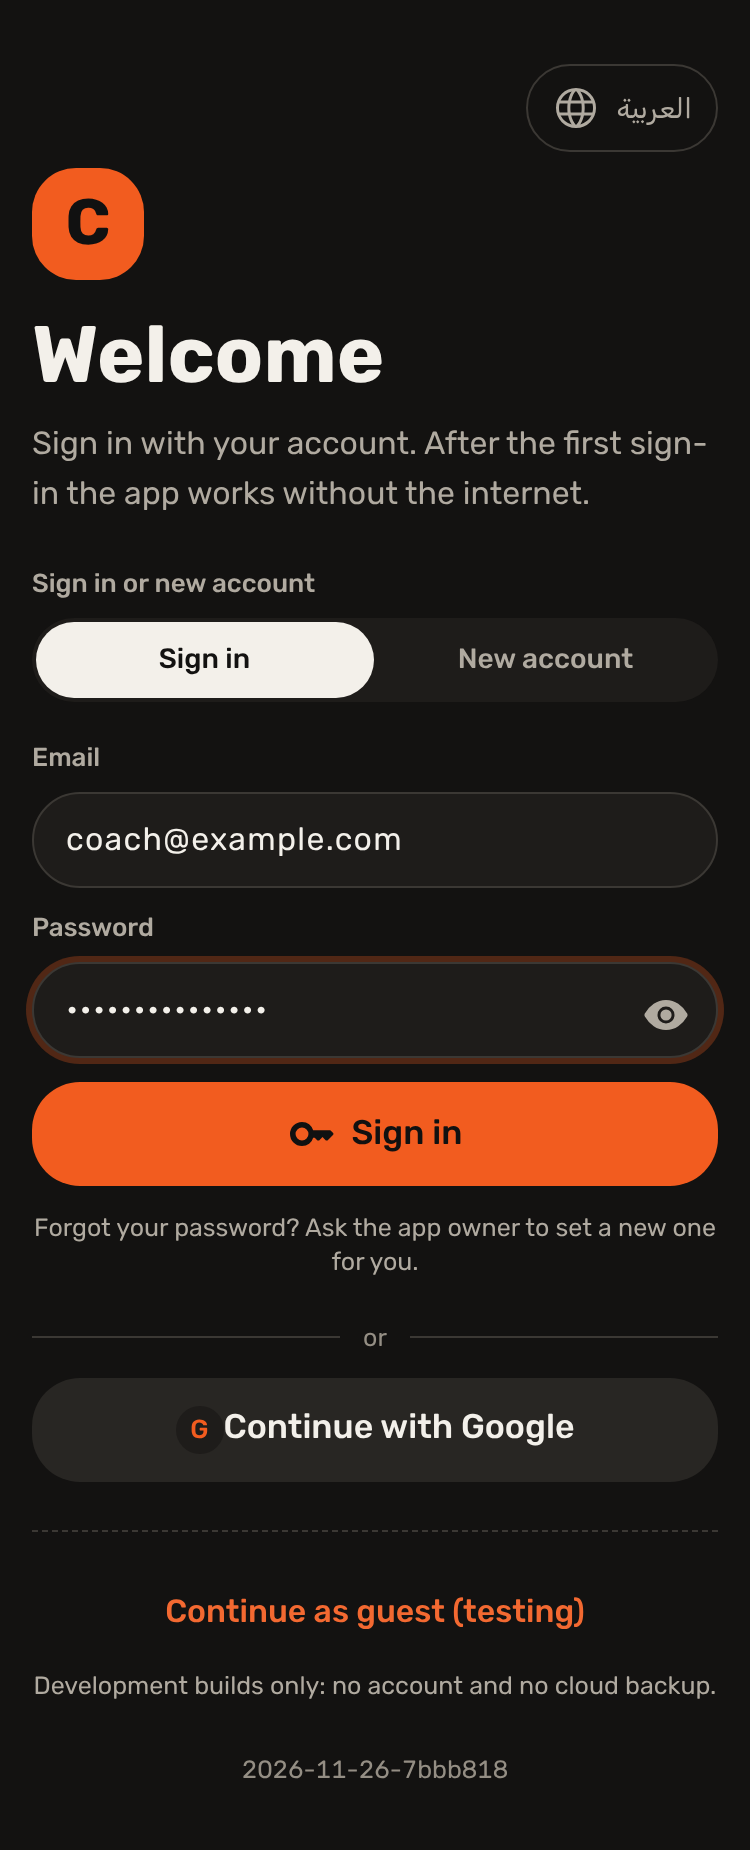
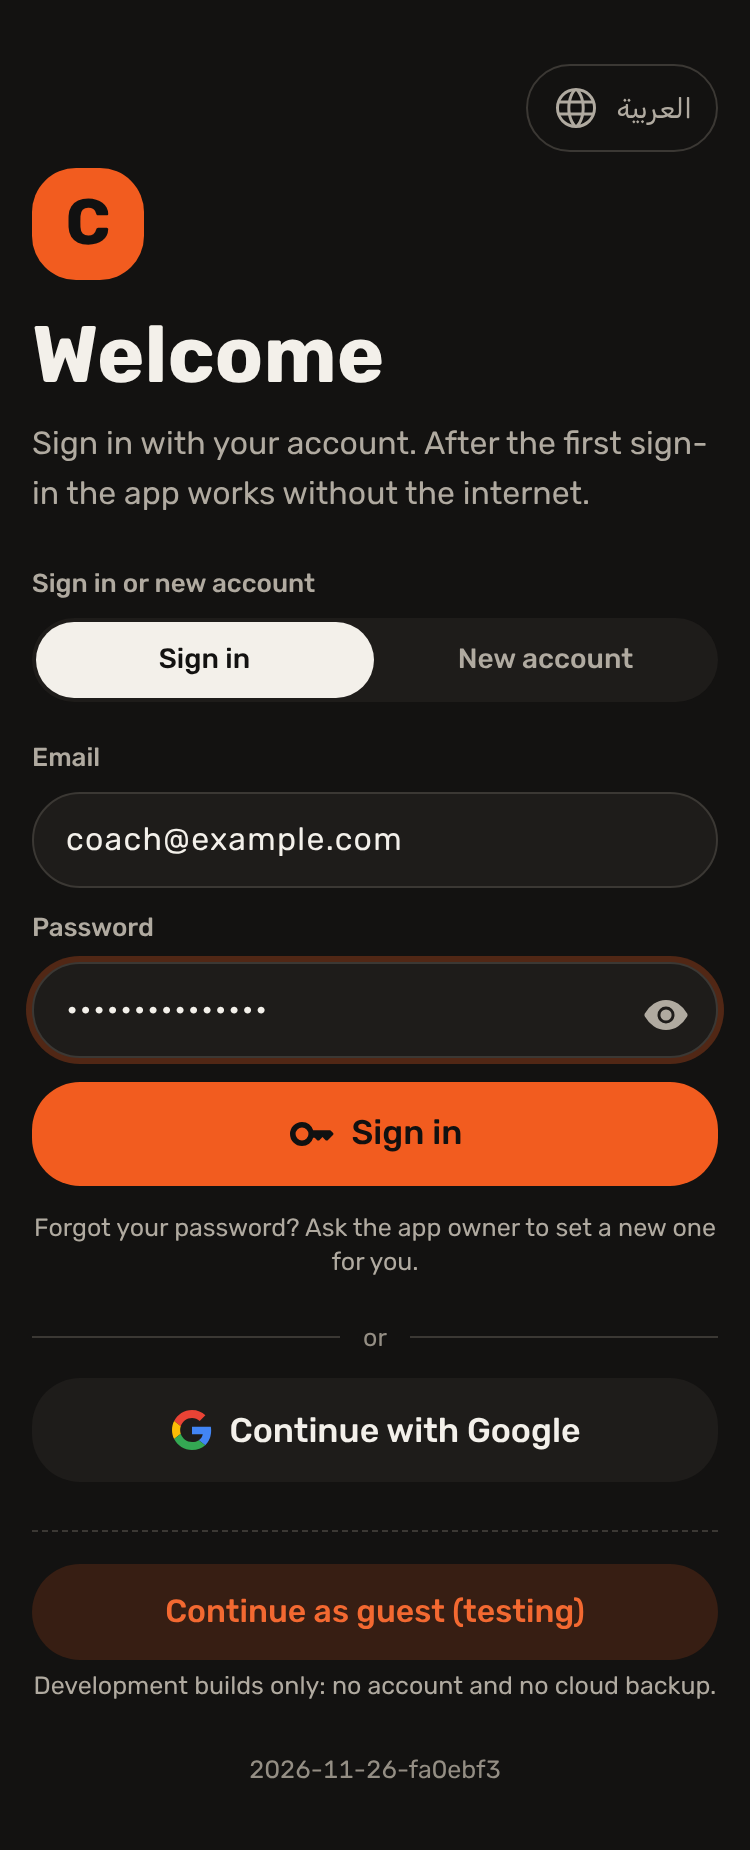
Buttons: Google sign-in is a real button with Google's G; no ghost buttons anywhere
- New outline variant (white pill, hairline border) + leading slot for a provider logo; GoogleLogo (multi-colour G).
- plain is now a brand-tint pill everywhere (about 30 standalone actions), so no button reads as ghost text.
  danger (red text, e.g. remove from team) is unchanged by request.
- DESIGN.md: the rule.

Claude-Session: https://claude.ai/code/session_012YPpedKTKw48EezoTwntGN

diff --git a/src/ui/Button/Button.tsx b/src/ui/Button/Button.tsx
@@ -4,18 +4,30 @@ import { cx } from '../cx';
 import styles from './Button.module.css';
 
 export interface ButtonProps extends ButtonHTMLAttributes<HTMLButtonElement> {
-  /** onBrand = inverse button sitting on a brand block (hero). */
-  variant?: 'primary' | 'secondary' | 'plain' | 'danger' | 'onBrand';
+  /**
+   * onBrand = inverse button sitting on a brand block (hero). plain = tinted pill (never a ghost text button).
+   * outline = white pill with a border, for "continue with <provider>" (pass the provider's logo as `leading`).
+   * danger = red text action (destructive, e.g. "remove from team").
+   */
+  variant?: 'primary' | 'secondary' | 'plain' | 'danger' | 'onBrand' | 'outline';
   size?: 'regular' | 'small' | 'large';
   icon?: IconName;
+  /** A custom glyph instead of `icon`, e.g. a provider's own logo (keeps its colours). */
+  leading?: ReactNode;
   block?: boolean;
   children: ReactNode;
 }
 
-export function Button({ variant = 'primary', size = 'regular', icon, block, className, children, type = 'button', ...rest }: ButtonProps) {
+export function Button({ variant = 'primary', size = 'regular', icon, leading, block, className, children, type = 'button', ...rest }: ButtonProps) {
   return (
     <button type={type} className={cx(styles.button, styles[variant], styles[size], block && styles.block, className)} {...rest}>
-      {icon && <Icon name={icon} />}
+      {leading ? (
+        <span className={styles.leading} aria-hidden="true">
+          {leading}
+        </span>
+      ) : (
+        icon && <Icon name={icon} />
+      )}
       <span>{children}</span>
     </button>
   );

diff --git a/src/features/auth/SignInScreen.tsx b/src/features/auth/SignInScreen.tsx
@@ -5,7 +5,7 @@ import { TEAM_META_KEYS } from '@/services/team/teamService';
 import { checkForAppUpdate, setReloadSafe } from '@/app/pwa/appUpdate';
 import { MIN_PASSWORD_LENGTH, validateSignIn, validateSignUp, type AuthError, type AuthState } from '@/domain/account';
 import { t } from '@/i18n';
-import { Button, Icon, SegmentedControl, TextField } from '@/ui';
+import { Button, GoogleLogo, Icon, SegmentedControl, TextField } from '@/ui';
 import { LanguageToggle } from './LanguageToggle';
 import styles from './AuthScreen.module.css';
 
@@ -190,10 +190,7 @@ export function SignInScreen({ initialError = null, onSignedIn }: SignInScreenPr
       {google && (
         <>
           <p className={styles.or}>{t('auth.or')}</p>
-          <Button variant="secondary" size="large" block disabled={busy} onClick={startGoogle} data-testid="google-sign-in">
-            <span className={styles.googleMark} aria-hidden="true">
-              G
-            </span>
+          <Button variant="outline" size="large" block leading={<GoogleLogo />} disabled={busy} onClick={startGoogle} data-testid="google-sign-in">
             {t('auth.google')}
           </Button>
         </>

diff --git a/src/ui/icons/GoogleLogo.tsx b/src/ui/icons/GoogleLogo.tsx
@@ -1,0 +1,14 @@
+/**
+ * Google's multi-colour "G", as Google's sign-in branding guidelines ask for on "continue with Google" buttons.
+ * Its colours are Google's and never follow the trainer's brand.
+ */
+export function GoogleLogo({ size = 20 }: { size?: number }) {
+  return (
+    <svg width={size} height={size} viewBox="0 0 48 48" aria-hidden="true" focusable="false">
+      <path fill="#EA4335" d="M24 9.5c3.54 0 6.71 1.22 9.21 3.6l6.85-6.85C35.9 2.38 30.47 0 24 0 14.62 0 6.51 5.38 2.56 13.22l7.98 6.19C12.43 13.72 17.74 9.5 24 9.5z" />
+      <path fill="#4285F4" d="M46.98 24.55c0-1.57-.15-3.09-.38-4.55H24v9.02h12.94c-.58 2.96-2.26 5.48-4.78 7.18l7.73 6c4.51-4.18 7.09-10.36 7.09-17.65z" />
+      <path fill="#FBBC05" d="M10.53 28.59c-.48-1.45-.76-2.99-.76-4.59s.27-3.14.76-4.59l-7.98-6.19C.92 16.46 0 20.12 0 24c0 3.88.92 7.54 2.56 10.78l7.97-6.19z" />
+      <path fill="#34A853" d="M24 48c6.48 0 11.93-2.13 15.89-5.81l-7.73-6c-2.15 1.45-4.92 2.3-8.16 2.3-6.26 0-11.57-4.22-13.47-9.91l-7.98 6.19C6.51 42.62 14.62 48 24 48z" />
+    </svg>
+  );
+}

diff --git a/src/ui/Button/Button.module.css b/src/ui/Button/Button.module.css
@@ -66,10 +66,33 @@
   color: var(--brand);
 }
 
+/*
+ * No ghost buttons (docs/DESIGN.md §5): a secondary action on its own is still a filled pill, here a brand tint
+ * with brand ink (≥ 4.5:1 in both modes). Text-only actions belong inside lists (ListRow), not as Buttons.
+ */
 .plain {
-  background: transparent;
+  background: var(--brand-tint);
   color: var(--brand-ink);
+}
+
+.small.plain {
   padding-inline: var(--sp-3);
+}
+
+/* Sign in with a third party (Google): white pill with a hairline border and that provider's own logo. */
+.outline {
+  background: var(--surface);
+  color: var(--text);
+  box-shadow:
+    inset 0 0 0 1px var(--line-strong),
+    var(--shadow-card);
+}
+
+.leading {
+  display: inline-grid;
+  place-items: center;
+  inline-size: 22px;
+  block-size: 22px;
 }
 
 .danger {

diff --git a/src/features/auth/AuthScreen.module.css b/src/features/auth/AuthScreen.module.css
@@ -105,17 +105,6 @@
   border-block-start: 1px solid var(--line-strong);
 }
 
-.googleMark {
-  display: inline-grid;
-  place-items: center;
-  inline-size: 24px;
-  block-size: 24px;
-  border-radius: 50%;
-  background: var(--surface);
-  color: var(--brand);
-  font: var(--t-label);
-}
-
 .guest {
   display: flex;
   flex-direction: column;

diff --git a/src/ui/index.ts b/src/ui/index.ts
@@ -1,4 +1,5 @@
 export { Icon, type IconName } from './icons/Icon';
+export { GoogleLogo } from './icons/GoogleLogo';
 export { TitleIcon } from './TitleIcon/TitleIcon';
 export { Button } from './Button/Button';
 export { IconButton } from './IconButton/IconButton';

diff --git a/docs/DESIGN.md b/docs/DESIGN.md
@@ -137,6 +137,10 @@ caption 12.5/400, buttons 16/500. Numbers tabular (`.num`) at 600–700: hero ti
   must clear it uses `--tabbar-space`.
 - **Hero (next session)**: brand block, radius 28, time 52px, on-brand "ابدأ الحصة" pill + round WhatsApp button.
 - **Buttons / chips / segments / fields**: pills (`--r-control`); selected segment and pressed chip = `--text` fill.
+- **No ghost buttons** (owner, 2026-11-26): a button on its own always looks like a button. `plain` is a brand-tint
+  pill with brand ink; text-only actions live inside lists (`ListRow`). The one exception is `danger`, the red text
+  action for destructive choices (e.g. «شيل من الفريق»). "Continue with Google" is the `outline` variant (white
+  pill, hairline border) with Google's own multi-colour G (`GoogleLogo`), never tinted by the trainer's brand.
 - **Section title icons**: brand-tint circles.
 - **Sheet**: radius 34, grabber 40×5, faint warm shadow.
 - Everything else follows §10: one implementation per control in `src/ui`.
